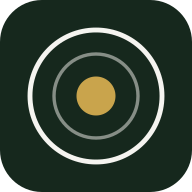
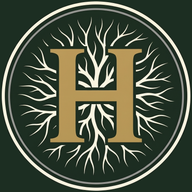
Integrate new brand mark from design handoff
Replaces the placeholder icon (concentric circles + dot) with the new
"H" monogram / mycelium-root mark across the nav, footer, favicon,
Apple touch icon, PWA install icons, and email header — per the
design_handoff_haywood_logo package, at the specified 44px nav/footer
sizing.

diff --git a/app/components/Footer.tsx b/app/components/Footer.tsx
@@ -8,7 +8,7 @@ export default function Footer() {
         <div className="grid grid-cols-1 gap-10 border-b border-white/10 pb-14 md:grid-cols-[1.4fr_1fr_1fr_1fr] md:gap-10">
           <div>
             <div className="flex items-center gap-3">
-              <Image src="/icon.svg" alt="" width={28} height={28} className="flex-none rounded-[6px] ring-1 ring-white/10" />
+              <Image src="/haywood-mark.png" alt="" width={44} height={44} className="flex-none object-contain" />
               <span>
                 <span className="block font-serif text-[23px] leading-none tracking-[0.01em] text-cream">
                   Haywood Mushrooms

diff --git a/app/components/Navbar.tsx b/app/components/Navbar.tsx
@@ -28,7 +28,7 @@ export default function Navbar() {
     <nav className="sticky top-0 z-50 border-b border-line bg-cream/[.82] backdrop-blur-md">
       <div className="mx-auto flex h-[78px] max-w-[1200px] items-center justify-between px-6 md:px-10">
         <Link href="/" className="flex min-w-0 items-center gap-3">
-          <Image src="/icon.svg" alt="" width={28} height={28} className="flex-none rounded-[6px]" />
+          <Image src="/haywood-mark.png" alt="" width={44} height={44} className="flex-none object-contain" />
           <span className="min-w-0">
             <span className="block truncate font-serif text-[23px] leading-none tracking-[0.01em] text-ink">
               Haywood Mushrooms